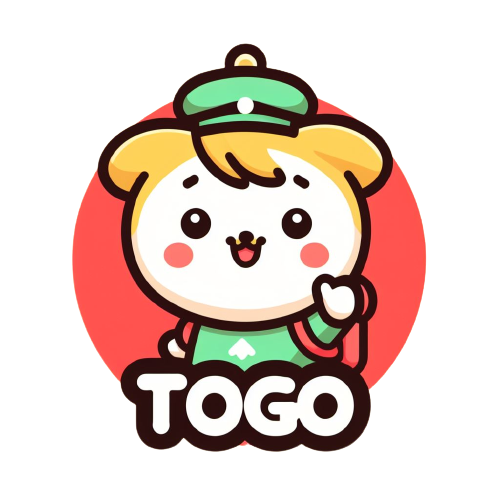
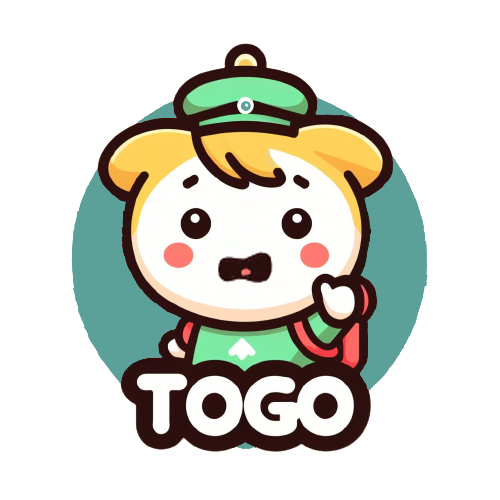
meow : new ui colors and images

diff --git a/index.html b/index.html
@@ -4,22 +4,22 @@
     <meta charset="UTF-8">
     <meta name="viewport" content="width=device-width, initial-scale=1.0">
     <title>home</title>
-    <link rel="shortcut icon" href="togo.jpeg" type="image/x-icon">
+    <link rel="shortcut icon" href="togo-favicon.png" type="image/x-icon">
     <script src="https://cdn.tailwindcss.com"></script>
     <script type="module" src="home.js"></script>
     <link rel="manifest" href="manifest.json">
 </head>
-<body class="flex flex-col min-h-screen bg-[#ff534f]">
-    <div class="min-w-[100vw] flex items-center mx-auto pr-4 bg-[#ffd75b]">
+<body class="flex flex-col min-h-screen bg-[#5BA199]">
+    <div class="min-w-[100vw] flex items-center backdrop-blur bg-opacity-50 mx-auto pr-4 bg-[#E5E3E4]">
         <img src="togo.png" class="h-[10vh] mr-3">
-        <div class="my-2 grow items-center justify-around hidden sm:flex">
-            <a class="bg-[#ff534f] px-3 py-2 rounded-xl text-center"  href="bookings.html">bookings</a>
-            <a class="bg-[#ff534f] px-3 py-2 rounded-xl text-center"  href="chats.html">chat</a>
-            <a class="bg-[#ff534f] px-3 py-2 rounded-xl text-center"  href="profile.html">profile</a>
-            <button class="bg-[#ff534f] px-3 py-2 rounded-xl" id="logout">logout</button>
+        <div class="my-2 grow items-center justify-around hidden sm:flex sm:gap-2">
+            <a class="bg-[#BBC6C8] grow px-3 py-2 rounded-xl text-center"  href="bookings.html">bookings</a>
+            <a class="bg-[#BBC6C8] grow px-3 py-2 rounded-xl text-center"  href="chats.html">chat</a>
+            <a class="bg-[#BBC6C8] grow px-3 py-2 rounded-xl text-center"  href="profile.html">profile</a>
+            <button class="bg-[#BBC6C8] grow px-3 py-2 rounded-xl" id="logout">logout</button>
         </div>
         <div class="my-2 grow items-center justify-end flex sm:hidden">
-            <button class="bg-[#ff534f] px-3 py-2 rounded-xl" id="menu">menu</button>
+            <button class="bg-[#BBC6C8] px-3 py-2 rounded-xl" id="menu">menu</button>
         </div>
     </div>
     <script>
@@ -38,7 +38,7 @@
     <div class="max-w-[1000px] mx-auto p-5 flex flex-col text-[4vw]">
         <div>welcome <span id="name"></span>,</div>
         <div>need a local guide person?</div>
-        <button class="bg-yellow-300 rounded-xl m-5 px-5 py-3" id="book" onclick="booking()">book them now</button>
+        <button class="bg-[#BBC6C8] rounded-xl m-5 px-5 py-3" id="book" onclick="booking()">book them now</button>
     </div>
     <div class="max-w-[1000px] mx-auto">
         <div id="select" class="bg-[#ffd75b] m-5 text-[4vw] relative md:text-[2rem] p-10 rounded-xl flex flex-col gap-2 hidden">

diff --git a/home.js b/home.js
@@ -42,8 +42,8 @@ onValue(ref(database, '/cityImgs'), (snapshot) => {
           cityname.classList.add("text-[#f9ac40]")
           cityname.classList.add("text-[10vw]")
           cityname.classList.add("lg:text-[100px]")
-          cityname.style.textStroke = '2px black';  
-          cityname.style.WebkitTextStroke = '2px black';
+          cityname.style.textStroke = '2px black'
+          cityname.style.WebkitTextStroke = '2px black'
       
           const citygallery = document.createElement('div');
           citygallery.style.backgroundImage = "url("+cityimgs[city]+")";
@@ -58,6 +58,7 @@ onValue(ref(database, '/cityImgs'), (snapshot) => {
           citygallery.classList.add("flex")
           citygallery.classList.add("flex-col")
           citygallery.classList.add("cursor-pointer")
+          
           citygallery.onclick = () => { window.location.href='search/index.html?city=' + city }
           
       

diff --git a/chats.html b/chats.html
@@ -4,10 +4,10 @@
     <meta charset="UTF-8">
     <meta name="viewport" content="width=device-width, initial-scale=1.0">
     <title>chats</title>
-    <link rel="shortcut icon" href="togo.jpeg" type="image/x-icon">
+    <link rel="shortcut icon" href="togo-favicon.png" type="image/x-icon">
     <script src="https://cdn.tailwindcss.com"></script>
 </head>
-<body class="flex flex-col min-h-screen bg-[#ff534f]">
-    <div class="w-full bg-[#ffd75b] px-2 py-3 text-[3vw]">chats</div>
+<body class="flex flex-col min-h-screen bg-[#5BA199]">
+    <div class="w-full backdrop-blur bg-opacity-50 bg-[#E5E3E4] px-2 py-3 text-[3vw]">chats</div>
 </body>
 </html>

diff --git a/guide/index.html b/guide/index.html
@@ -5,7 +5,7 @@
     <meta name="viewport" content="width=device-width, initial-scale=1.0">
     <title>profile</title>
     <script type="module" src="guide.js"></script>
-    <link rel="shortcut icon" href="../togo.jpeg" type="image/x-icon">
+    <link rel="shortcut icon" href="../togo-favicon.png" type="image/x-icon">
     <script src="https://cdn.tailwindcss.com"></script>
 </head>
 <body class="flex min-h-screen items-center justify-center bg-[#ff534f]">

diff --git a/profile.html b/profile.html
@@ -5,7 +5,7 @@
     <meta name="viewport" content="width=device-width, initial-scale=1.0">
     <title>profile</title>
     <script type="module" src="profile.js"></script>
-    <link rel="shortcut icon" href="togo.jpeg" type="image/x-icon">
+    <link rel="shortcut icon" href="togo-favicon.png" type="image/x-icon">
     <script src="https://cdn.tailwindcss.com"></script>
 </head>
 <body class="flex min-h-screen items-center justify-center bg-[#ff534f]">

diff --git a/search/index.html b/search/index.html
@@ -4,7 +4,7 @@
     <meta charset="UTF-8">
     <meta name="viewport" content="width=device-width, initial-scale=1.0">
     <title>search</title>
-    <link rel="shortcut icon" href="../togo.jpeg" type="image/x-icon">
+    <link rel="shortcut icon" href="../togo-favicon.png" type="image/x-icon">
     <script src="https://cdn.tailwindcss.com"></script>
 </head>
 <body class="flex min-h-screen items-center justify-center bg-[#ff534f]">

diff --git a/bookings.html b/bookings.html
@@ -4,7 +4,7 @@
     <meta charset="UTF-8">
     <meta name="viewport" content="width=device-width, initial-scale=1.0">
     <title>bookings</title>
-    <link rel="shortcut icon" href="togo.jpeg" type="image/x-icon">
+    <link rel="shortcut icon" href="togo-favicon.png" type="image/x-icon">
     <script src="https://cdn.tailwindcss.com"></script>
 </head>
 <body class="flex min-h-screen items-center justify-center bg-[#ff534f]">

diff --git a/signup.html b/signup.html
@@ -4,7 +4,7 @@
     <meta charset="UTF-8">
     <meta name="viewport" content="width=device-width, initial-scale=1.0">
     <title>signup</title>
-    <link rel="shortcut icon" href="togo.jpeg" type="image/x-icon">
+    <link rel="shortcut icon" href="togo-favicon.png" type="image/x-icon">
     <script src="signup.js" type="module"></script>
     <script src="https://cdn.tailwindcss.com"></script>
 </head>

diff --git a/login.html b/login.html
@@ -4,7 +4,7 @@
     <meta charset="UTF-8">
     <meta name="viewport" content="width=device-width, initial-scale=1.0">
     <title>login</title>
-    <link rel="shortcut icon" href="togo.jpeg" type="image/x-icon">
+    <link rel="shortcut icon" href="togo-favicon.png" type="image/x-icon">
     <script src="login.js" type="module"></script>
     <script src="https://cdn.tailwindcss.com"></script>
 </head>
